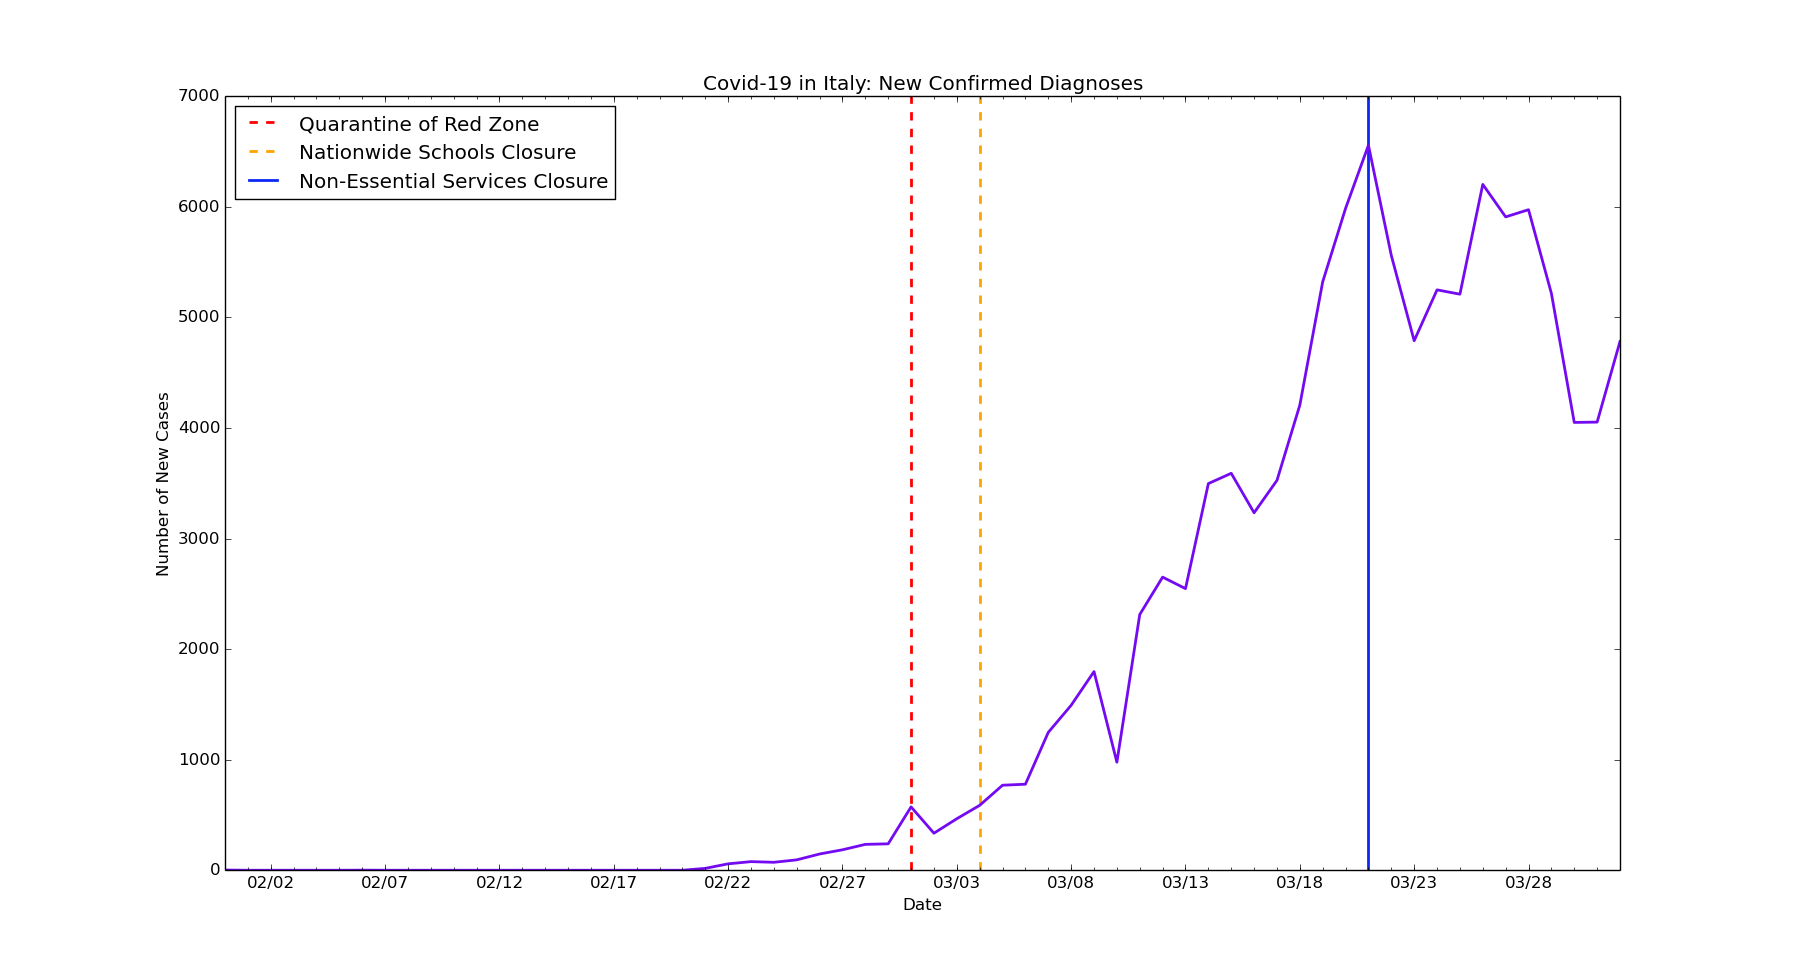
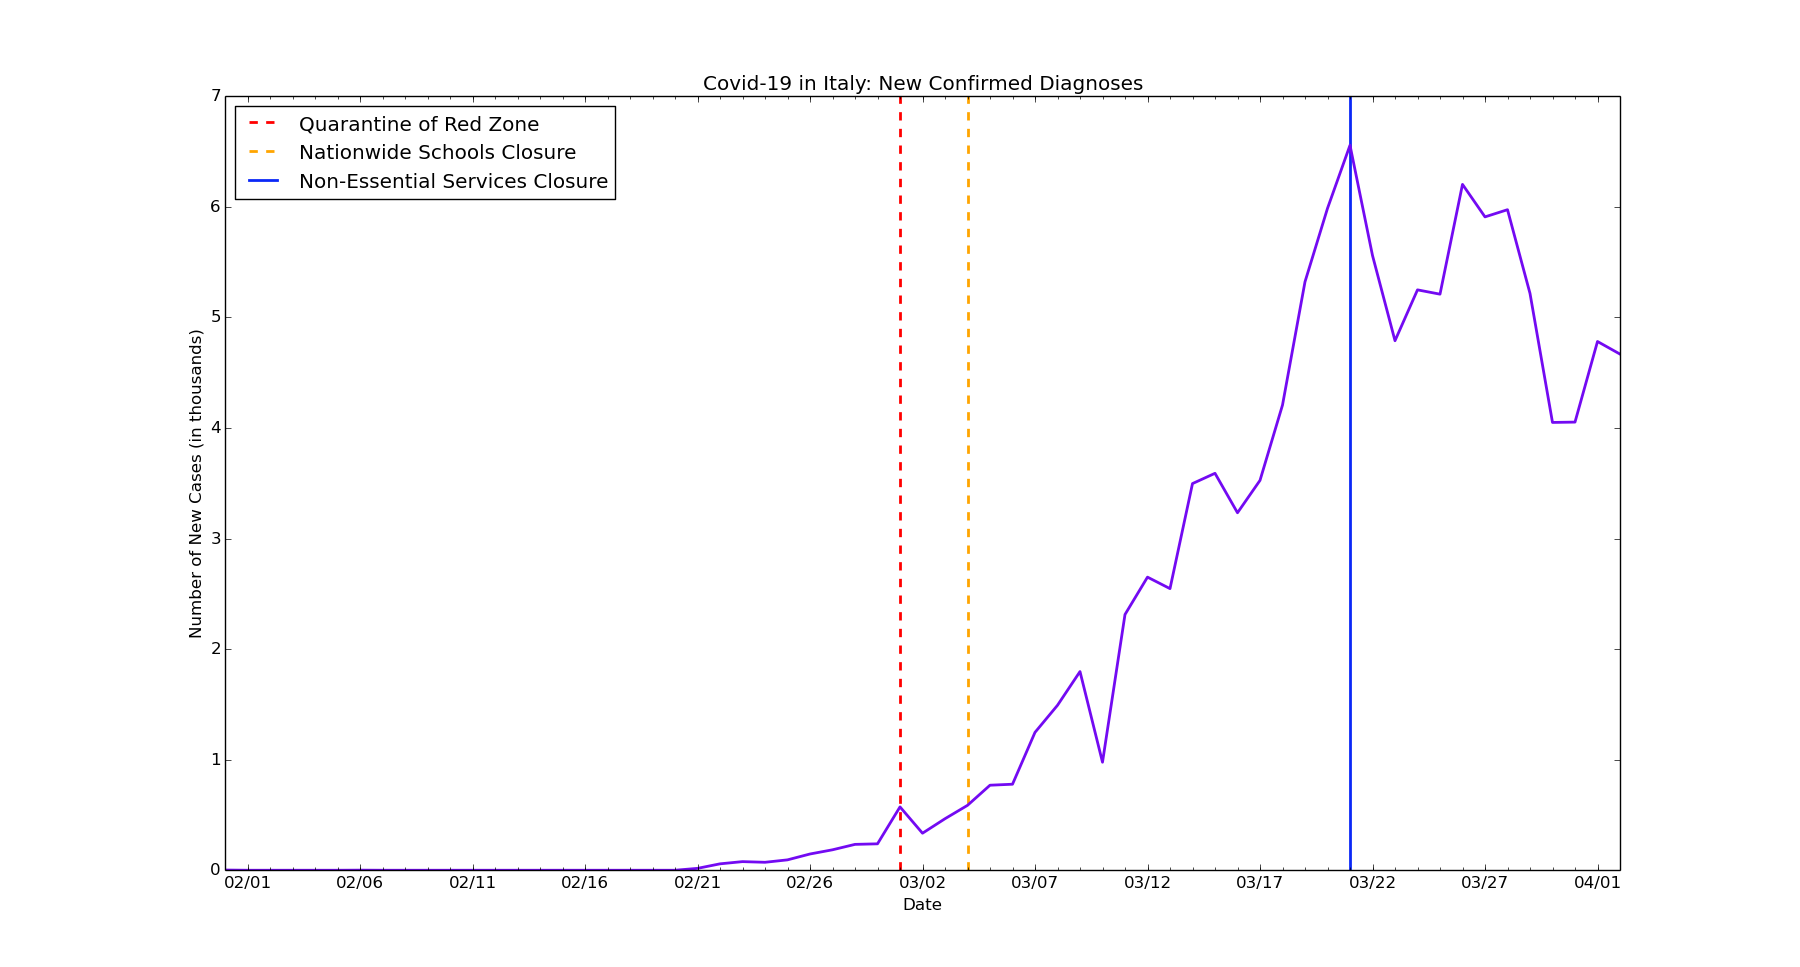
chore: Update data for Italy

diff --git a/italy/it-nc.py b/italy/it-nc.py
@@ -3,9 +3,10 @@
 import datetime as dt
 import matplotlib.pyplot as plt
 import matplotlib.dates as mdates
+import matplotlib.ticker as ticker
 from matplotlib.dates import MO, TU, WE, TH, FR, SA, SU
 
-dates = ['1/31/2020', '2/1/2020', '2/2/2020', '2/3/2020', '2/4/2020', '2/5/2020', '2/6/2020', '2/7/2020', '2/8/2020', '2/9/2020', '2/10/2020', '2/11/2020', '2/12/2020', '2/13/2020', '2/14/2020', '2/15/2020', '2/16/2020', '2/17/2020', '2/18/2020', '2/19/2020', '2/20/2020', '2/21/2020', '2/22/2020', '2/23/2020', '2/24/2020', '2/25/2020', '2/26/2020', '2/27/2020', '2/28/2020', '2/29/2020', '3/1/2020', '3/2/2020', '3/3/2020', '3/4/2020', '3/5/2020', '3/6/2020', '3/7/2020', '3/8/2020', '3/9/2020', '3/10/2020', '3/11/2020', '3/12/2020', '3/13/2020', '3/14/2020', '3/15/2020', '3/16/2020', '3/17/2020', '3/18/2020', '3/19/2020', '3/20/2020', '3/21/2020', '3/22/2020', '3/23/2020', '3/24/2020', '3/25/2020', '3/26/2020', '3/27/2020', '3/28/2020', '3/29/2020', '3/30/2020', '3/31/2020', '4/1/2020']
+dates = ['1/31/2020', '2/1/2020', '2/2/2020', '2/3/2020', '2/4/2020', '2/5/2020', '2/6/2020', '2/7/2020', '2/8/2020', '2/9/2020', '2/10/2020', '2/11/2020', '2/12/2020', '2/13/2020', '2/14/2020', '2/15/2020', '2/16/2020', '2/17/2020', '2/18/2020', '2/19/2020', '2/20/2020', '2/21/2020', '2/22/2020', '2/23/2020', '2/24/2020', '2/25/2020', '2/26/2020', '2/27/2020', '2/28/2020', '2/29/2020', '3/1/2020', '3/2/2020', '3/3/2020', '3/4/2020', '3/5/2020', '3/6/2020', '3/7/2020', '3/8/2020', '3/9/2020', '3/10/2020', '3/11/2020', '3/12/2020', '3/13/2020', '3/14/2020', '3/15/2020', '3/16/2020', '3/17/2020', '3/18/2020', '3/19/2020', '3/20/2020', '3/21/2020', '3/22/2020', '3/23/2020', '3/24/2020', '3/25/2020', '3/26/2020', '3/27/2020', '3/28/2020', '3/29/2020', '3/30/2020', '3/31/2020', '4/1/2020', '4/2/2020']
 
 # format dates
 x_values = [dt.datetime.strptime(d, "%m/%d/%Y").date() for d in dates]
@@ -26,13 +27,16 @@ plt.axvline(dt.datetime(2020, 3, 4), linestyle='--', color='orange', linewidth=2
 # stay-at-home
 plt.axvline(dt.datetime(2020, 3, 21), color='#0b28f7', linewidth=2, label='nonessential')
 
+# format y-axis
+ax.get_yaxis().set_major_formatter(ticker.FuncFormatter(lambda x, pos: format(int(x/1000), ',')))
+
 # new cases by day
-new_cases = [2, 0, 0, 0, 0, 0, 1, 0, 0, 0, 0, 0, 0, 0, 0, 0, 0, 0, 0, 0, 0, 17, 58, 78, 72, 94, 147, 185, 234, 239, 573, 335, 466, 587, 769, 778, 1247, 1492, 1797, 977, 2313, 2651, 2547, 3497, 3590, 3233, 3526, 4207, 5322, 5986, 6557, 5560, 4789, 5249, 5210, 6203, 5909, 5974, 5217, 4050, 4053, 4782]
+new_cases = [2, 0, 0, 0, 0, 0, 1, 0, 0, 0, 0, 0, 0, 0, 0, 0, 0, 0, 0, 0, 0, 17, 58, 78, 72, 94, 147, 185, 234, 239, 573, 335, 466, 587, 769, 778, 1247, 1492, 1797, 977, 2313, 2651, 2547, 3497, 3590, 3233, 3526, 4207, 5322, 5986, 6557, 5560, 4789, 5249, 5210, 6203, 5909, 5974, 5217, 4050, 4053, 4782, 4668]
 
 # text labels
 plt.title('Covid-19 in Italy: New Confirmed Diagnoses')
 plt.xlabel('Date')
-plt.ylabel('Number of New Cases')
+plt.ylabel('Number of New Cases (in thousands)')
 plt.legend(['Quarantine of Red Zone', 'Nationwide Schools Closure', 'Non-Essential Services Closure'], loc='upper left')
 
 # create the graph

diff --git a/italy/it-rvd.py b/italy/it-rvd.py
@@ -6,7 +6,7 @@ import matplotlib.dates as mdates
 import matplotlib.ticker as ticker
 from matplotlib.dates import MO, TU, WE, TH, FR, SA, SU
 
-dates = ['2/20/2020', '2/21/2020', '2/22/2020', '2/23/2020', '2/24/2020', '2/25/2020', '2/26/2020', '2/27/2020', '2/28/2020', '2/29/2020', '3/1/2020', '3/2/2020', '3/3/2020', '3/4/2020', '3/5/2020', '3/6/2020', '3/7/2020', '3/8/2020', '3/9/2020', '3/10/2020', '3/11/2020', '3/12/2020', '3/13/2020', '3/14/2020', '3/15/2020', '3/16/2020', '3/17/2020', '3/18/2020', '3/19/2020', '3/20/2020', '3/21/2020', '3/22/2020', '3/23/2020', '3/24/2020', '3/25/2020', '3/26/2020', '3/27/2020', '3/28/2020', '3/29/2020', '3/30/2020', '3/31/2020', '4/1/2020']
+dates = ['2/20/2020', '2/21/2020', '2/22/2020', '2/23/2020', '2/24/2020', '2/25/2020', '2/26/2020', '2/27/2020', '2/28/2020', '2/29/2020', '3/1/2020', '3/2/2020', '3/3/2020', '3/4/2020', '3/5/2020', '3/6/2020', '3/7/2020', '3/8/2020', '3/9/2020', '3/10/2020', '3/11/2020', '3/12/2020', '3/13/2020', '3/14/2020', '3/15/2020', '3/16/2020', '3/17/2020', '3/18/2020', '3/19/2020', '3/20/2020', '3/21/2020', '3/22/2020', '3/23/2020', '3/24/2020', '3/25/2020', '3/26/2020', '3/27/2020', '3/28/2020', '3/29/2020', '3/30/2020', '3/31/2020', '4/1/2020', '4/2/2020']
 
 # format dates
 x_values = [datetime.datetime.strptime(d, "%m/%d/%Y").date() for d in dates]
@@ -21,13 +21,13 @@ ax.xaxis.set_major_locator(mdates.WeekdayLocator(byweekday=(MO, TU, WE, TH, FR, 
 ax.xaxis.set_minor_locator(mdates.WeekdayLocator(byweekday=(MO, TU, WE, TH, FR, SA, SU)))
 
 # format y-axis
-ax.get_yaxis().set_major_formatter(ticker.FuncFormatter(lambda x, pos: format(int(x), ',')))
+ax.get_yaxis().set_major_formatter(ticker.FuncFormatter(lambda x, pos: format(int(x/1000), ',')))
 
-# recoveries
-recoveries = [0, 1, 2, 2, 2, 3, 3, 45, 46, 50, 90, 149, 160, 276, 414, 523, 589, 622, 724, 1004, 1045, 1258, 1439, 1966, 2335, 2749, 2941, 4025, 4440, 5129, 6072, 7024, 7432, 8326, 9362, 10361, 10950, 12384, 13030, 14620, 15729, 16847]
+# total recoveries
+recoveries = [0, 1, 2, 2, 2, 3, 3, 45, 46, 50, 90, 149, 160, 276, 414, 523, 589, 622, 724, 1004, 1045, 1258, 1439, 1966, 2335, 2749, 2941, 4025, 4440, 5129, 6072, 7024, 7432, 8326, 9362, 10361, 10950, 12384, 13030, 14620, 15729, 16847, 18278]
 
-# deaths
-deaths = [0, 1, 2, 3, 6, 10, 12, 17, 21, 29, 34, 52, 79, 107, 148, 197, 233, 366, 463, 631, 827, 1016, 1266, 1441, 1809, 2158, 2503, 2978, 3405, 4032, 4825, 5476, 6077, 6820, 7503, 8215, 9134, 10023, 10779, 11591, 12428, 13155]
+# total deaths
+deaths = [0, 1, 2, 3, 6, 10, 12, 17, 21, 29, 34, 52, 79, 107, 148, 197, 233, 366, 463, 631, 827, 1016, 1266, 1441, 1809, 2158, 2503, 2978, 3405, 4032, 4825, 5476, 6077, 6820, 7503, 8215, 9134, 10023, 10779, 11591, 12428, 13155, 13915]
 
 # create the graph
 plt.plot(x_values, recoveries, color='#12cfdf', linewidth=2)
@@ -36,7 +36,7 @@ plt.plot(x_values, deaths, color='#C70039', linewidth=2)
 # text labels
 plt.title('Covid-19 in Italy: Recoveries vs Deaths')
 plt.xlabel('Date')
-plt.ylabel('Total')
+plt.ylabel('Total (in thousands)')
 plt.legend(['Total Recoveries', 'Total Deaths'], loc='upper left')
 
 plt.show()
